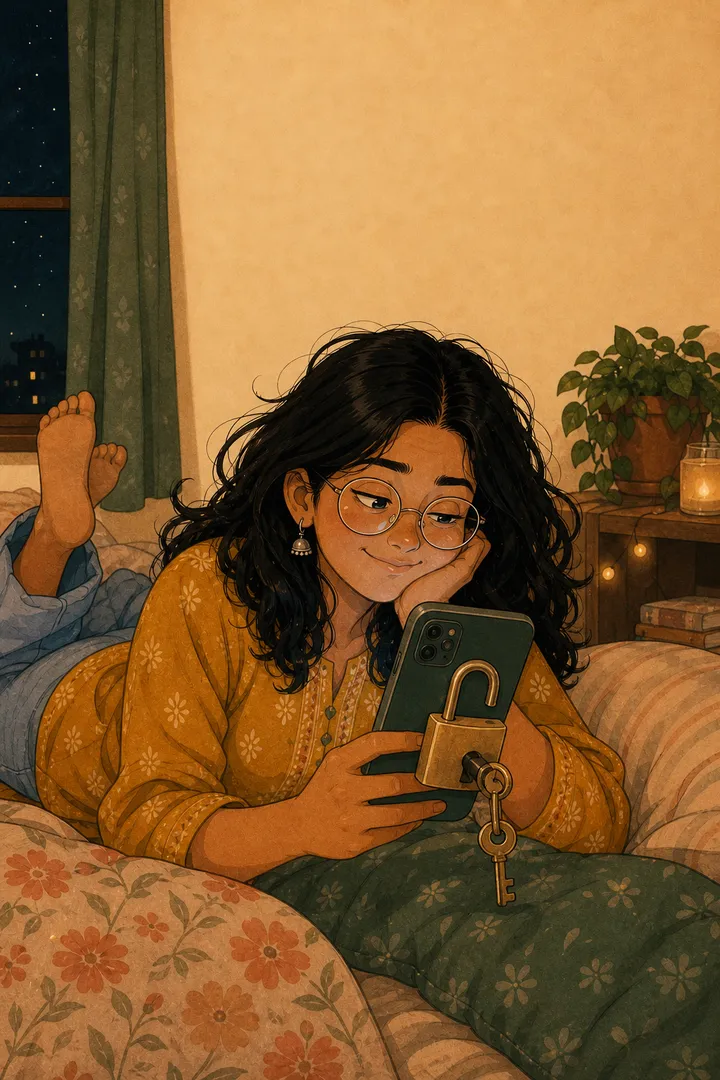
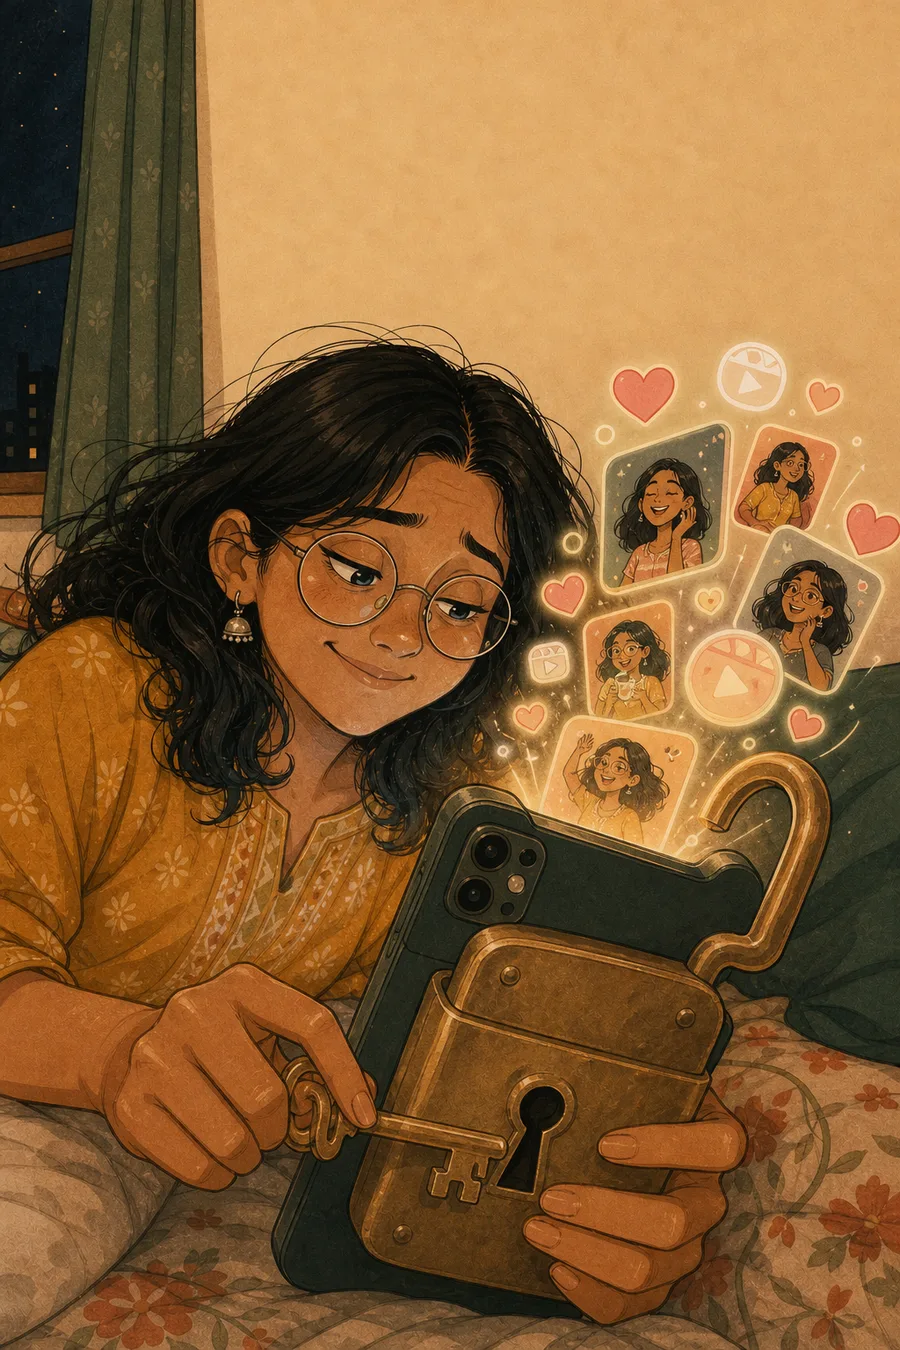
Why mock F: pictures tell it (key turned by her own hand / key far away in another room), zoom on Pauzie, less text
Claude-Session: https://claude.ai/code/session_01A2CDd1HbkHA24vdiLtybSe

diff --git a/why-f.html b/why-f.html
@@ -28,6 +28,12 @@
   .side h3 { margin-top: 14px; font: 600 clamp(26px, 3vw, 34px)/1.1 Switzer; letter-spacing: -.025em; }
   .side p { margin-top: 10px; font: 500 clamp(18px, 1.7vw, 20px)/1.45 Switzer; color: var(--grey); }
   .good { background: #eef0e4; }
+  .pic { position: relative; container-type: inline-size; }
+  /* magnifier on the far shelf: Pauzie with the key, in the other room */
+  .zoom { position: absolute; left: 6cqw; top: 5cqw; width: 38cqw; height: 38cqw; border-radius: 50%; border: 5px solid #fff;
+    box-shadow: 0 12px 28px -10px rgba(0,0,0,.45); background: url(assets/why/k2.webp?v=2) no-repeat;
+    background-size: 300cqw 450cqw; background-position: calc(19cqw - 212.4cqw) calc(19cqw - 96.75cqw); }
+  .zoom::after { content: ""; position: absolute; left: 100%; top: 62%; width: 22cqw; height: 3px; background: #fff; transform-origin: left; transform: rotate(8deg); border-radius: 3px; }
 
   .end { margin: 44px auto 0; max-width: 22ch; font: 600 clamp(28px, 5.6vw, 46px)/1.1 Switzer; letter-spacing: -.03em; text-wrap: balance; }
 </style>
@@ -42,19 +48,17 @@
 
   <div class="pair">
     <article class="side bad">
-      <img src="assets/why/k1.webp" alt="Riya scrolling at night. A padlock hangs on her phone with the key still in it.">
+      <img src="assets/why/k1.webp?v=2" alt="Riya scrolling at night. A padlock hangs on her phone with the key still in it.">
       <div class="txt">
         <span class="tag">✕ Other app blockers</span>
         <h3>The key is on your phone.</h3>
-        <p>The lock and the key live on the same phone. When the urge hits, one tap and you're back on reels.</p>
       </div>
     </article>
     <article class="side good">
-      <img src="assets/why/k2.webp" alt="Riya studying. Her phone is locked on the desk and Pauzie, the key, sits on top of the almirah across the room.">
+      <div class="pic"><img src="assets/why/k2.webp?v=2" alt="Riya studies with her phone padlocked on the desk. Far away in another room, Pauzie hangs with the key on a shelf."><span class="zoom" aria-hidden="true"></span></div>
       <div class="txt">
         <span class="tag">✓ Pauzie</span>
         <h3>Pauzie is the key. Keep it far away.</h3>
-        <p>Your apps unlock only when you tap Pauzie. Keep it in another room, and you'll have to get up to cheat. Most of the time, you won't.</p>
       </div>
     </article>
   </div>

diff --git a/gen/story.py b/gen/story.py
@@ -36,11 +36,16 @@ PANELS = {
         "The task is clearly finished: a closed notebook with a ribbon bookmark on a neat stack of closed books, laptop shut, evening window. "
         "Riya's other hand is raised in a happy fist pump, big relieved grin. A playful burst of small cartoon speech bubbles, red dots and "
         "little hearts springs up out of the phone screen like confetti. No animals anywhere.",
-  'k1': "Riya lies on her bed at night scrolling her phone happily-guiltily; on the phone's back hangs a big brass padlock that is OPEN, "
-        "with its key still stuck in the lock and dangling, clearly showing the lock is useless because the key is right there. The padlock and key are BIG and obvious, close to the viewer. No other gadgets, no device, no puck anywhere in the picture. Funny and clear.",
-  'k2': "Riya studies calmly at her desk in morning light; her phone lies face-down on the desk with a big brass padlock CLOSED on it and no key. "
-        "Far across the room, high on top of a tall almirah, sits the Pauzie device, glowing softly, with a little brass key tag hanging from it "
-        "like a keychain, showing that Pauzie is the key and it is far away.",
+  'k1': "Close-up, low angle, the phone and padlock fill the lower half of the frame. Riya, lying on her bed at night, holds her glowing phone; "
+        "a BIG brass padlock is clamped over the phone, and her own fingers are TURNING THE KEY that is stuck in it, the shackle popping open. "
+        "Out of the phone screen burst playful cartoon reels, hearts, play buttons and red notification dots, pulling her in. Her face: a guilty, "
+        "sheepish grin. The message must be obvious without words: the key is right on the lock, so she unlocks it herself in one second. "
+        "No other gadgets, no device, no puck anywhere in the picture.",
+  'k2': "Deep perspective composition showing DISTANCE. Foreground: Riya at her study desk, calm and focused, writing; her phone lies on the desk "
+        "with a BIG brass padlock firmly CLOSED around it, no key anywhere near. Background: through an open doorway, down a long hallway, in ANOTHER "
+        "ROOM far away, the Pauzie device sits high on a shelf with a big brass key hanging from it like a keychain, softly glowing. A faint dotted "
+        "path on the floor leads from her chair, through the doorway, all the way to the far shelf. The cartoon reels and notification creatures sit "
+        "outside the closed padlock, bored and sulking. The message must be obvious without words: the key is far away, so the phone stays locked.",
   'p6': "Funny and clear: in her home, Riya stands on tiptoe on a small wooden stool, reaching up to place the Pauzie device on top of a very "
         "tall steel almirah (Indian cupboard), far out of reach. Her phone lies face-down on the study desk below, already locked. "
         "Her mother in the doorway watches, amused, arms crossed. Playful sense of 'hide it so you can't cheat'. No animals anywhere.",
